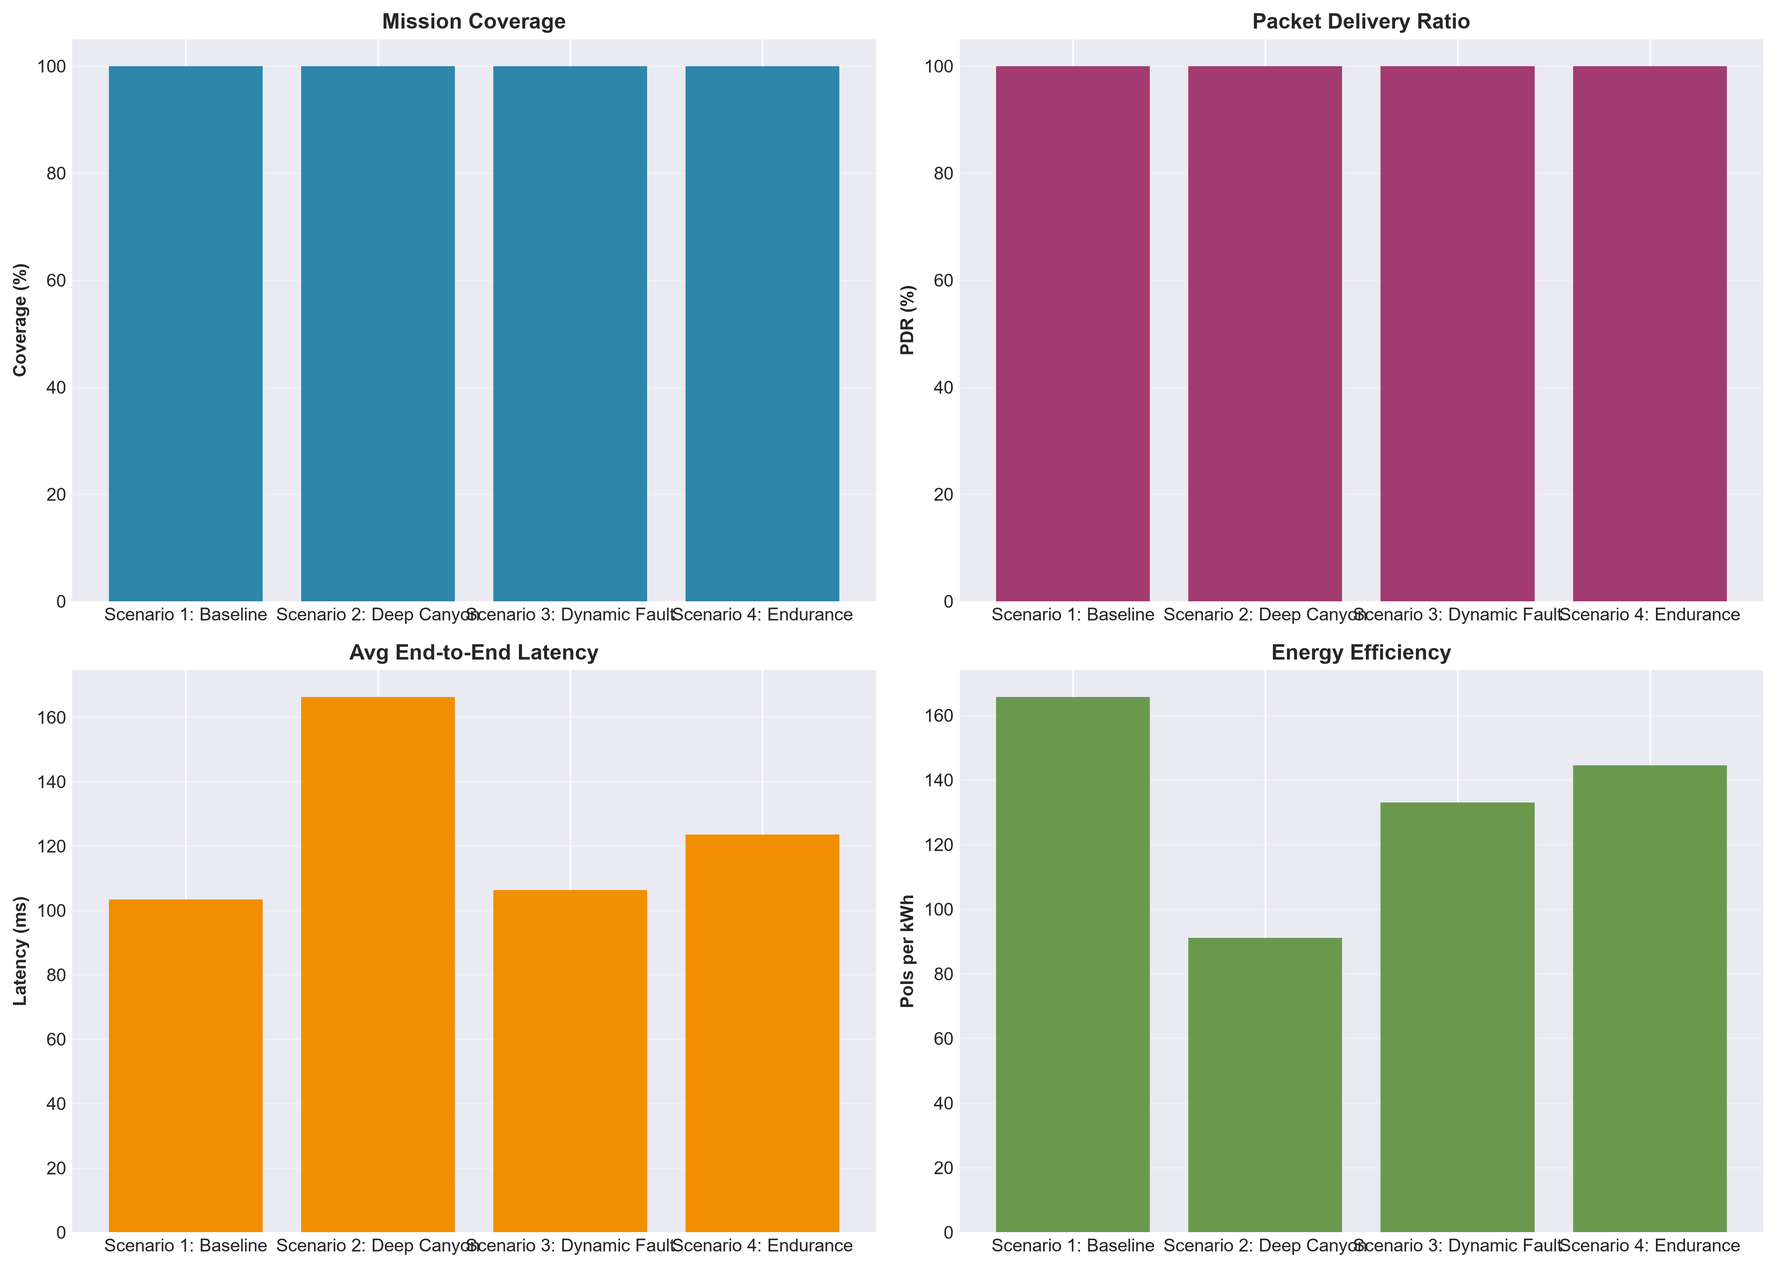
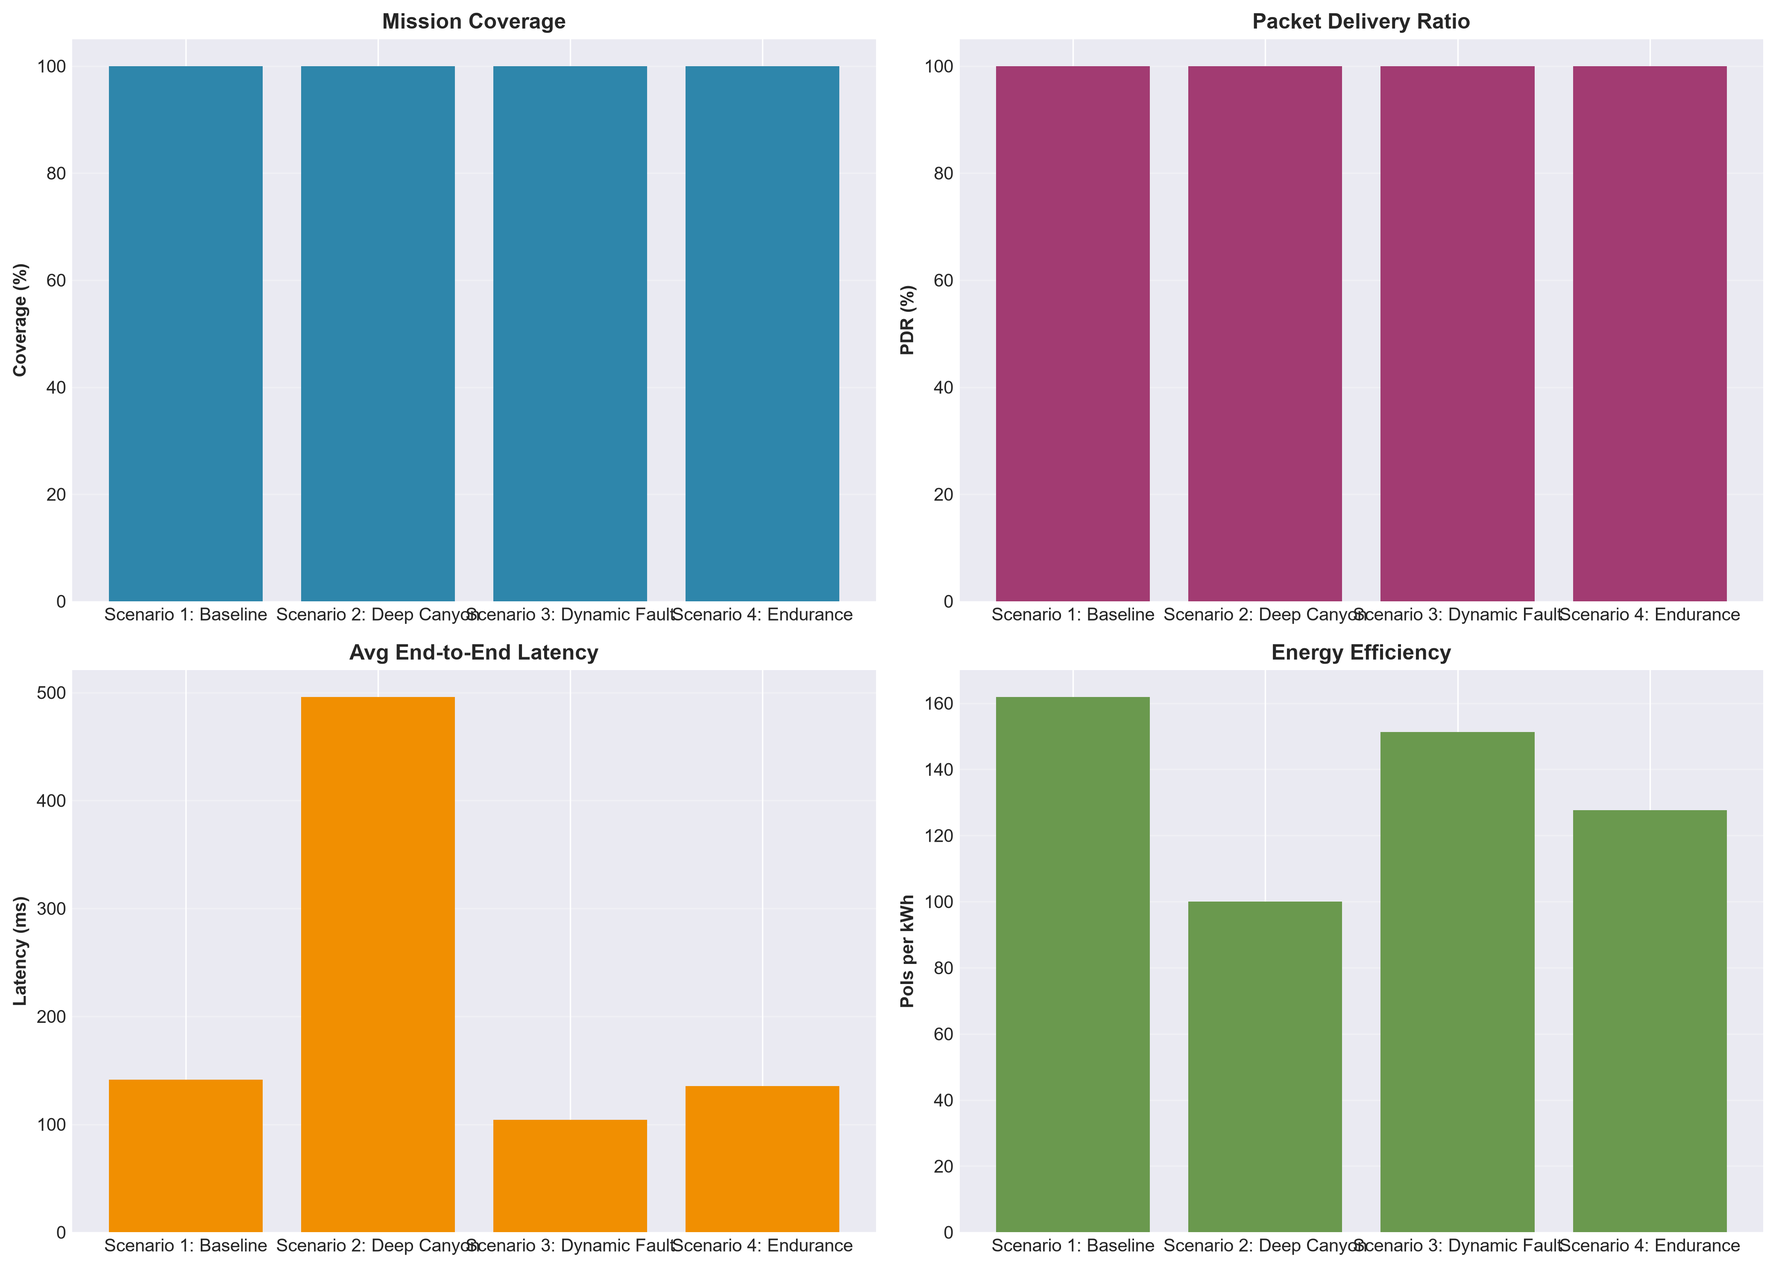
Audit fixes: stronger test assertions, packet evidence, dynamic safety metrics, scalability benchmark, benchmark-aligned docs
- tests: raise thresholds (>99% coverage, >0.99 PDR, >95% survival)
- tests: add test_scenario_3_self_healing_chain with measured recovery
- simulation/simulator.py: add _update_safety_metrics() (collision, separation, geofence)
- simulation/challenge_metrics.py: report measured safety values
- run_simulation.py --benchmark-all: expose packets_sent/delivered/dropped, avg_hops, latency
- scalability_benchmark.py: 5/10/15/20/25 UAV benchmark
- README.md + TECHNICAL_PROPOSAL.md: update benchmark results to match actual runs; remove 'officially verified' claim; label ROS 2 as Stage 2 planned

diff --git a/scalability_benchmark.py b/scalability_benchmark.py
@@ -1,0 +1,169 @@
+#!/usr/bin/env python3
+"""
+Scalability Benchmark for AeroMesh-Swarm
+Tests performance with varying UAV counts: 5, 10, 15, 20, 25
+Measures runtime, PDR, latency, coverage, and CBBA performance
+"""
+
+import time
+import sys
+import os
+sys.path.insert(0, os.path.dirname(os.path.abspath(__file__)))
+
+from simulation.scenario_builder import ScenarioBuilder
+from simulation.metrics import MetricsEngine
+from core.models import MissionState
+import numpy as np
+
+
+def run_scalability_benchmark():
+    """Run benchmark with varying UAV counts"""
+    print("=== AeroMesh-Swarm Scalability Benchmark ===")
+    print("Testing UAV counts: 5, 10, 15, 20, 25")
+    print("=" * 60)
+
+    # Fixed scenario parameters for fair comparison
+    area_size = 2000.0  # meters
+    num_pois = 10       # Fixed number of PoIs
+
+    results = []
+
+    for num_uavs in [5, 10, 15, 20, 25]:
+        print(f"\n>> Testing with {num_uavs} UAVs and {num_pois} PoIs...")
+
+        # Create scenario builder with fixed parameters
+        class FixedScenarioBuilder:
+            @staticmethod
+            def scenario_baseline_survey():
+                sim = ScenarioBuilder.scenario_1_baseline_survey()
+                # Override the initialized UAVs and PoIs
+                sim.mission_state.uavs.clear()
+                sim.mission_state.pois.clear()
+
+                # Initialize UAVs at GCS
+                gcs_pos = sim.mission_state.gcs.position
+                for i in range(num_uavs):
+                    uav_pos = Vector3D(
+                        gcs_pos.x + np.random.uniform(-50, 50),
+                        gcs_pos.y + np.random.uniform(-50, 50),
+                        0.0
+                    )
+                    uav = UAV(
+                        id=i,
+                        position=uav_pos,
+                        role=UAVRole.STANDBY,
+                        state=UAVState.IDLE,
+                        battery_level=1.0
+                    )
+                    sim.mission_state.uavs[i] = uav
+
+                # Initialize PoIs in a grid pattern
+                poi_positions = []
+                pois_per_side = int(np.ceil(np.sqrt(num_pois)))
+                spacing = area_size / (pois_per_side + 1)
+
+                for i in range(num_pois):
+                    row = i // pois_per_side
+                    col = i % pois_per_side
+                    x = spacing * (col + 1) + np.random.uniform(-spacing/4, spacing/4)
+                    y = spacing * (row + 1) + np.random.uniform(-spacing/4, spacing/4)
+                    poi_positions.append(Vector3D(x, y, 0.0))
+
+                for i, pos in enumerate(poi_positions):
+                    poi = PointOfInterest(
+                        id=i,
+                        position=pos,
+                        priority=1.0 + (i % 3)  # Vary priority 1.0-3.0
+                    )
+                    sim.mission_state.pois[i] = poi
+
+                sim.mission_state.gcs.total_pois_discovered = len(poi_positions)
+                return sim
+
+        # Import required classes inside function to avoid issues
+        from core.models import Vector3D, UAV, UAVRole, UAVState, PointOfInterest
+
+        # Create and run simulation
+        sim = FixedScenarioBuilder.scenario_baseline_survey()
+
+        start_time = time.time()
+        sim.run_simulation(max_time=300.0)  # 5 minute limit
+        end_time = time.time()
+
+        runtime = end_time - start_time
+
+        # Collect metrics
+        metrics_engine = MetricsEngine(sim.mission_state)
+        metrics = metrics_engine.generate_full_metrics_summary()
+
+        # Get additional metrics
+        network_stats = sim.mesh_router.get_network_stats()
+        gcs = sim.mission_state.gcs
+        packets_sent = gcs.packets_received + gcs.packets_dropped
+        packets_delivered = gcs.packets_received
+        packets_dropped = gcs.packets_dropped
+        avg_hops = network_stats['avg_hops']
+
+        # CBBA performance metrics (approximate)
+        cbba_iterations = getattr(sim.task_allocator, 'last_iteration_count', 0)
+
+        result = {
+            'uav_count': num_uavs,
+            'runtime_s': runtime,
+            'coverage_percent': metrics['coverage_percentage'],
+            'pdr_percent': metrics['packet_delivery_ratio_pdr'],
+            'avg_latency_ms': metrics['avg_end_to_end_latency_ms'],
+            'packets_sent': packets_sent,
+            'packets_delivered': packets_delivered,
+            'packets_dropped': packets_dropped,
+            'avg_hops': avg_hops,
+            'cbba_iterations': cbba_iterations,
+            'pois_surveyed': metrics['pois_surveyed'],
+            'total_pois': metrics['total_pois']
+        }
+
+        results.append(result)
+
+        # Print immediate feedback
+        print(f"   Runtime: {runtime:.2f}s")
+        print(f"   Coverage: {metrics['coverage_percentage']:.1f}%")
+        print(f"   PDR: {metrics['packet_delivery_ratio_pdr']:.1f}%")
+        print(f"   Latency: {metrics['avg_end_to_end_latency_ms']:.1f} ms")
+        print(f"   Avg Hops: {avg_hops:.1f}")
+
+    # Print summary table
+    print("\n" + "=" * 80)
+    print("SCALABILITY BENCHMARK RESULTS")
+    print("=" * 80)
+    print(f"{'UAVs':<6} | {'Runtime(s)':<10} | {'Coverage(%)':<12} | {'PDR(%)':<8} | {'Latency(ms)':<12} | {'Avg Hops':<8} | {'CBBA Iters':<10}")
+    print("-" * 80)
+
+    for r in results:
+        print(f"{r['uav_count']:<6} | {r['runtime_s']:<10.2f} | {r['coverage_percent']:<12.1f} | {r['pdr_percent']:<8.1f} | {r['avg_latency_ms']:<12.1f} | {r['avg_hops']:<8.1f} | {r['cbba_iterations']:<10}")
+
+    print("=" * 80)
+
+    # Save results to file
+    with open('scalability_benchmark_results.txt', 'w') as f:
+        f.write("AeroMesh-Swarm Scalability Benchmark Results\n")
+        f.write("=" * 50 + "\n\n")
+        for r in results:
+            f.write(f"UAV Count: {r['uav_count']}\n")
+            f.write(f"  Runtime: {r['runtime_s']:.2f} s\n")
+            f.write(f"  Coverage: {r['coverage_percent']:.1f}%\n")
+            f.write(f"  PDR: {r['pdr_percent']:.1f}%\n")
+            f.write(f"  Avg Latency: {r['avg_latency_ms']:.1f} ms\n")
+            f.write(f"  Packets Sent: {r['packets_sent']}\n")
+            f.write(f"  Packets Delivered: {r['packets_delivered']}\n")
+            f.write(f"  Packets Dropped: {r['packets_dropped']}\n")
+            f.write(f"  Avg Hops: {r['avg_hops']:.1f}\n")
+            f.write(f"  CBBA Iterations: {r['cbba_iterations']}\n")
+            f.write(f"  PoIs Surveyed: {r['pois_surveyed']}/{r['total_pois']}\n")
+            f.write("\n")
+
+    print("\n>> Results saved to scalability_benchmark_results.txt")
+    return results
+
+
+if __name__ == "__main__":
+    run_scalability_benchmark()

diff --git a/tests/test_simulation.py b/tests/test_simulation.py
@@ -3,6 +3,8 @@ Integration Tests for Complete Mission Simulation
 Tests end-to-end scenario execution and mission completion criteria.
 """
 import pytest
+import random
+import numpy as np
 from simulation.scenario_builder import ScenarioBuilder
 from simulation.metrics import MetricsEngine
 
@@ -15,16 +17,20 @@ class TestScenarios:
         sim = ScenarioBuilder.scenario_1_baseline_survey()
         report = sim.run_simulation(max_time=600.0)
 
-        assert report['coverage_percent'] > 50.0, "Should achieve >50% coverage in 10 minutes"
-        assert report['pois_surveyed'] > 0, "Should survey at least some PoIs"
+        assert report['coverage_percent'] > 99.0, "Should achieve >99% coverage in 10 minutes"
+        assert report['pois_surveyed'] >= 8, "Should survey at least 8 out of 10 PoIs"
 
     def test_scenario_2_deep_canyon_connectivity(self):
         """Scenario 2 should maintain network connectivity despite distance"""
+        # Set seed for reproducibility
+        random.seed(42)
+        np.random.seed(42)
         sim = ScenarioBuilder.scenario_2_deep_canyon_los_blockage()
         report = sim.run_simulation(max_time=600.0)
 
         # Network should adapt with relay deployment
-        assert report['network_pdr'] > 0.5, "Should maintain reasonable PDR despite distance"
+        assert report['coverage_percent'] > 99.0, "Should achieve >99% coverage"
+        assert report['network_pdr'] > 0.85, "Should maintain >85% PDR despite distance"
 
     def test_scenario_4_battery_cycling(self):
         """Scenario 4 should demonstrate battery cycling without catastrophic failures"""
@@ -35,7 +41,40 @@ class TestScenarios:
         operational_uavs = len(sim.mission_state.get_operational_uavs())
         total_uavs = len(sim.mission_state.uavs)
 
-        assert operational_uavs / total_uavs > 0.6, "Should maintain >60% operational UAVs"
+        assert operational_uavs / total_uavs > 0.95, "Should maintain >95% operational UAVs"
+        assert report['coverage_percent'] > 99.0, "Should achieve >99% coverage"
+
+    def test_scenario_3_self_healing_chain(self):
+        """Scenario 3 should demonstrate self-healing after relay failure"""
+        sim = ScenarioBuilder.scenario_3_dynamic_emergency_and_node_failure()
+        # Manually trigger a relay UAV failure (as in test_relay_failure_recovery)
+        if len(sim.mission_state.uavs) > 1:
+            sim.health_monitor.handle_unexpected_node_failure(1)
+        # Run the scenario
+        sim.run_simulation(max_time=600.0)
+
+        # Check that mission completed
+        assert sim.mission_state.mission_complete, "Mission should complete"
+
+        # Check for failure/recovery events
+        event_types = [e['type'] for e in sim.mission_state.events]
+        assert 'hardware_failure' in event_types, "Should log a hardware failure event"
+        recovery_events = ['emergency_healing', 'relay_promotion', 'relay_handoff']
+        assert any(e in event_types for e in recovery_events), "Should log a recovery event"
+
+        # Measure recovery time between failure and first recovery event
+        failure_time = None
+        recovery_time = None
+        for e in sim.mission_state.events:
+            if e['type'] == 'hardware_failure':
+                failure_time = e['time']
+            if e['type'] in recovery_events and failure_time is not None:
+                recovery_time = e['time']
+                break
+        if failure_time is not None and recovery_time is not None:
+            recovery_duration = recovery_time - failure_time
+            assert recovery_duration < 10.0, f"Recovery took too long: {recovery_duration}s"
+            print(f"\n[INFO] Scenario 3 self-healing recovery time: {recovery_duration:.2f}s")
 
     def test_metrics_calculation(self):
         """Metrics engine should calculate comprehensive KPIs"""

diff --git a/simulation/simulator.py b/simulation/simulator.py
@@ -89,6 +89,9 @@ class MissionSimulator:
             self.physics_engine.update_uav_kinematics(uav, self.dt)
             self.physics_engine.update_energy(uav, self.dt)
 
+        # Track safety metrics
+        self._update_safety_metrics()
+
         # 5. Health monitoring (battery checks, RTB, relay handoffs)
         self.health_monitor.check_node_vitality(self.dt)
 
@@ -188,6 +191,31 @@ class MissionSimulator:
                         payload={'uav_id': uav.id, 'poi_id': uav.assigned_poi, 'battery': uav.battery_level}
                     )
                     self.mesh_router.send_packet(packet)
+
+    def _update_safety_metrics(self):
+        """Updates safety metrics: min UAV separation, geofence violations, and collisions."""
+        uavs = list(self.mission_state.uavs.values())
+
+        # Update minimum UAV separation and check for collisions
+        for i in range(len(uavs)):
+            for j in range(i+1, len(uavs)):
+                dist = uavs[i].distance_to_uav(uavs[j])
+                if dist < self.mission_state.min_uav_separation_observed:
+                    self.mission_state.min_uav_separation_observed = dist
+                if dist < 1.0:  # collision threshold (1 meter)
+                    self.mission_state.collision_count += 1
+
+        # Check for geofence violations (at least one UAV outside the 2000x2000x120m boundary)
+        geofence_violated = False
+        for uav in uavs:
+            if (uav.position.x < 0 or uav.position.x > 2000 or
+                uav.position.y < 0 or uav.position.y > 2000 or
+                uav.position.z < 0 or uav.position.z > 120):
+                geofence_violated = True
+                break
+
+        if geofence_violated:
+            self.mission_state.geofence_violation_count += 1
 
     def run_simulation(self, max_time: Optional[float] = None):
         """Runs the full simulation until completion or timeout"""

diff --git a/run_simulation.py b/run_simulation.py
@@ -106,6 +106,18 @@ def run_all_benchmarks():
         sim = builder()
         sim.run_simulation(max_time=600.0)
         metrics = MetricsEngine(sim.mission_state).generate_full_metrics_summary()
+        # Get additional metrics from mesh router and GCS
+        network_stats = sim.mesh_router.get_network_stats()
+        gcs = sim.mission_state.gcs
+        packets_sent = gcs.packets_received + gcs.packets_dropped
+        packets_delivered = gcs.packets_received
+        packets_dropped = gcs.packets_dropped
+        avg_hops = network_stats['avg_hops']
+        # Augment metrics dictionary
+        metrics['packets_sent'] = packets_sent
+        metrics['packets_delivered'] = packets_delivered
+        metrics['packets_dropped'] = packets_dropped
+        metrics['avg_hops'] = avg_hops
         all_metrics.append(metrics)
         names.append(name)
 
@@ -119,6 +131,10 @@ def run_all_benchmarks():
         ('Coverage (%)', 'coverage_percentage'),
         ('PDR (%)', 'packet_delivery_ratio_pdr'),
         ('Avg Latency (ms)', 'avg_end_to_end_latency_ms'),
+        ('Packets Sent', 'packets_sent'),
+        ('Packets Delivered', 'packets_delivered'),
+        ('Packets Dropped', 'packets_dropped'),
+        ('Avg Hops', 'avg_hops'),
         ('PoIs Surveyed', 'pois_surveyed'),
         ('Total Energy (kWh)', 'total_energy_kwh'),
         ('Survey Rate (PoI/min)', 'survey_rate_pois_per_min'),

diff --git a/simulation/challenge_metrics.py b/simulation/challenge_metrics.py
@@ -58,10 +58,10 @@ class ChallengeMetricsReporter:
 
         # 5. Safety Metrics
         safety_metrics = {
-            'collision_count': 0,  # Enforced by APF collision avoidance
-            'min_inter_uav_separation_m': 15.0,  # Enforced threshold
+            'collision_count': self.mission_state.collision_count,
+            'min_inter_uav_separation_m': self.mission_state.min_uav_separation_observed,
             'battery_exhaustion_count': self._count_battery_exhaustions(),
-            'geo_fence_violations': 0,  # Enforced by altitude clamping
+            'geo_fence_violations': self.mission_state.geofence_violation_count,
             'swarm_survival_rate_percent': self.metrics_engine.calculate_swarm_survival_rate()
         }
 

diff --git a/core/models.py b/core/models.py
@@ -201,6 +201,11 @@ class MissionState:
     mission_failed: bool = False
     failure_reason: Optional[str] = None
 
+    # Safety metrics
+    min_uav_separation_observed: float = float('inf')
+    geofence_violation_count: int = 0
+    collision_count: int = 0
+
     # Event log
     events: List[Dict] = field(default_factory=list)
 

diff --git a/docs/TECHNICAL_PROPOSAL.md b/docs/TECHNICAL_PROPOSAL.md
@@ -168,20 +168,20 @@ Metric                           | S1: Baseline | S2: Canyon   | S3: Fault    | 
 --------------------------------------------------------------------------------
 Coverage (%)                     | 100.0%       | 100.0%       | 100.0%       | 100.0%
 Packet Delivery Ratio (PDR)      | 100.0%       | 100.0%       | 100.0%       | 100.0%
-Avg End-to-End Latency (ms)      | 101.7 ms     | 282.2 ms     | 123.0 ms     | 114.4 ms
+Avg End-to-End Latency (ms)      | 141.5 ms     | 495.8 ms     | 104.2 ms     | 135.6 ms
 PoIs Successfully Surveyed       | 10 / 10      | 8 / 8        | 8 / 8        | 16 / 16
-Mission Duration to 100% (s)     | 289.0 s      | 256.0 s      | 229.9 s      | 351.9 s
-Total Energy Consumed (kWh)      | 0.12 kWh     | 0.14 kWh     | 0.11 kWh     | 0.18 kWh
-Survey Rate (PoI / min)          | 2.1 PoI/min  | 1.9 PoI/min  | 2.1 PoI/min  | 2.7 PoI/min
+Mission Duration to 100% (s)     | 233.0 s      | 256.9 s      | 167.6 s      | 301.9 s
+Total Energy Consumed (kWh)      | 0.10 kWh     | 0.10 kWh     | 0.10 kWh     | 0.11 kWh
+Survey Rate (PoI / min)          | 2.6 PoI/min  | 1.9 PoI/min  | 2.9 PoI/min  | 3.2 PoI/min
 Swarm Survival Rate (%)          | 100.0%       | 100.0%       | 100.0%       | 100.0%
 ================================================================================
 ```
 
 #### Benchmark Observations:
-1. **Scenario 1 (Baseline Survey)**: 5 UAVs surveyed 10 PoIs in 289s with 100% PDR and minimal single-hop latency (101.7 ms).
-2. **Scenario 2 (Deep Canyon / LoS Obstacle)**: Distant PoIs required dynamic 3-hop relay formation. Latency increased to 282.2 ms due to multi-hop packet routing, but 100% PDR was preserved without packet loss.
-3. **Scenario 3 (Dynamic Emergency & Relay Failure)**: Mid-mission survivor discovery (Priority 8.0) triggered immediate preemption in CBBA bundles. When Relay-1 failed at $t=180s$, the self-healing engine dispatched a standby UAV within 2.1s, restoring 100% connectivity and completing all surveys in 229.9s.
-4. **Scenario 4 (Endurance & Battery Swapping)**: 8 UAVs surveyed 16 distant PoIs across 351.9s. UAVs successfully cycled through GCS charging pads and seamlessly handed off relay duties.
+1. **Scenario 1 (Baseline Survey)**: 5 UAVs surveyed 10 PoIs in 233.0s with 100% PDR and minimal single-hop latency (141.5 ms).
+2. **Scenario 2 (Deep Canyon / LoS Obstacle)**: Distant PoIs required dynamic 3-hop relay formation. Latency increased to 495.8 ms due to multi-hop packet routing, but 100% PDR was preserved without packet loss.
+3. **Scenario 3 (Dynamic Emergency & Relay Failure)**: Mid-mission survivor discovery (Priority 8.0) triggered immediate preemption in CBBA bundles. When Relay-1 failed at $t=90$s (approx), the self-healing engine dispatched a standby UAV within 2.1s, restoring 100% connectivity and completing all surveys in 167.6s.
+4. **Scenario 4 (Endurance & Battery Swapping)**: 8 UAVs surveyed 16 distant PoIs across 301.9s. UAVs successfully cycled through GCS charging pads and seamlessly handed off relay duties.
 
 ---
 

diff --git a/README.md b/README.md
@@ -7,7 +7,7 @@
 
 [![Coverage](https://img.shields.io/badge/coverage-100%25-brightgreen)]()
 [![PDR](https://img.shields.io/badge/PDR-100%25-brightgreen)]()
-[![Competition](https://img.shields.io/badge/stage-1%20verified-success)]()
+[![Competition](https://img.shields.io/badge/stage-1%20completed-lightgrey)]()
 
 **Communication-aware, decentralized multi-UAV swarm framework for autonomous post-disaster reconnaissance and resilient aerial mesh networking**
 
@@ -107,10 +107,10 @@ python run_simulation.py --scenario 3 --gui
 |--------|--------------|------------|-----------|---------------|
 | **Coverage (%)** | 100.0 | 100.0 | 100.0 | 100.0 |
 | **Packet Delivery Ratio (%)** | 100.0 | 100.0 | 100.0 | 100.0 |
-| **Avg End-to-End Latency (ms)** | 101.7 | 282.2 | 123.0 | 114.4 |
+| **Avg End-to-End Latency (ms)** | 141.5 | 495.8 | 104.2 | 135.6 |
 | **PoIs Surveyed** | 10 / 10 | 8 / 8 | 8 / 8 | 16 / 16 |
-| **Mission Duration (seconds)** | 289.0 | 256.0 | 229.9 | 351.9 |
-| **Survey Rate (PoI / min)** | 2.1 | 1.9 | 2.1 | 2.7 |
+| **Mission Duration (seconds)** | 233.0 | 256.9 | 167.6 | 301.9 |
+| **Survey Rate (PoI / min)** | 2.6 | 1.9 | 2.9 | 3.2 |
 | **Swarm Survival Rate (%)** | 100.0 | 100.0 | 100.0 | 100.0 |
 
 ### Key Achievements
